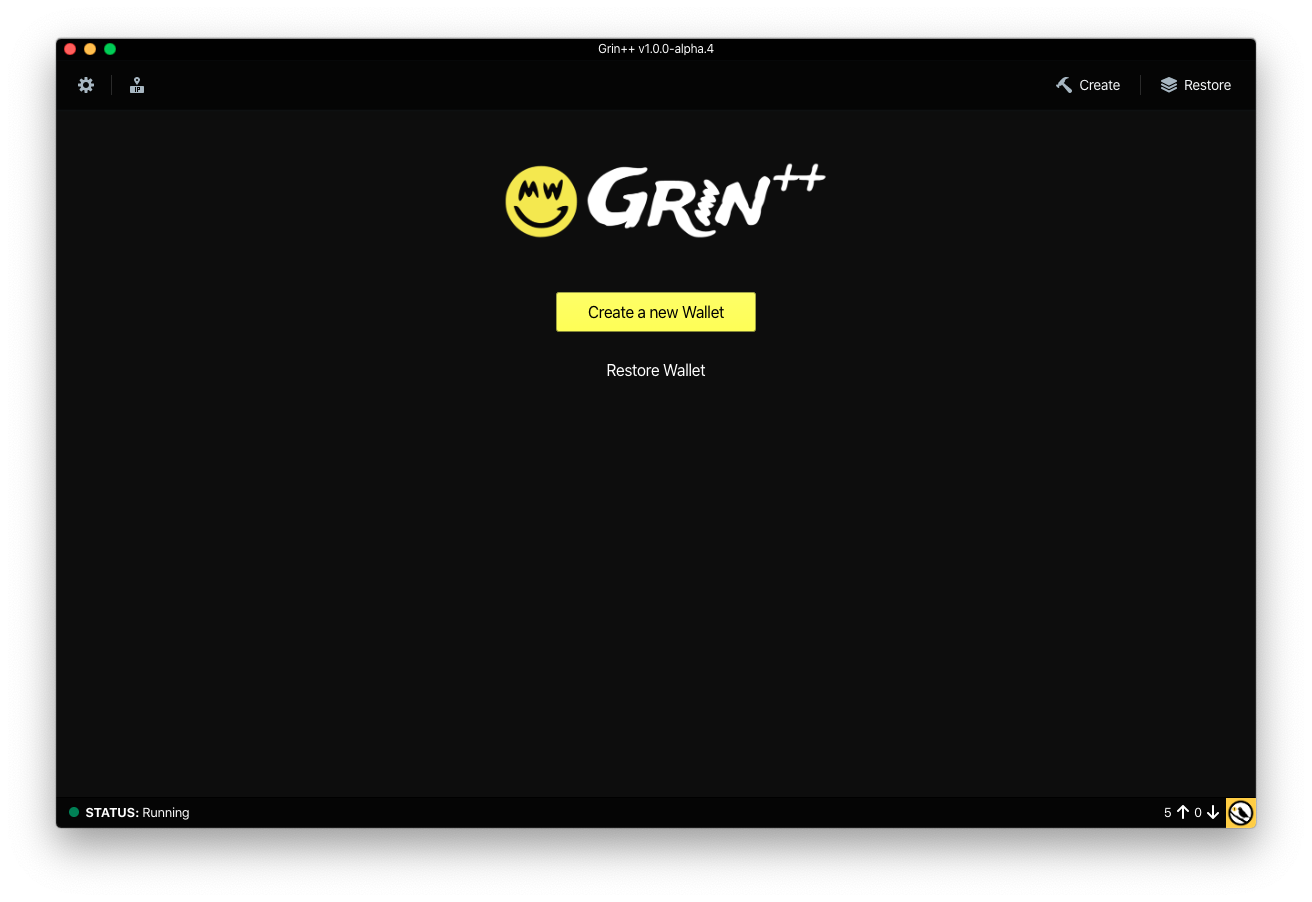
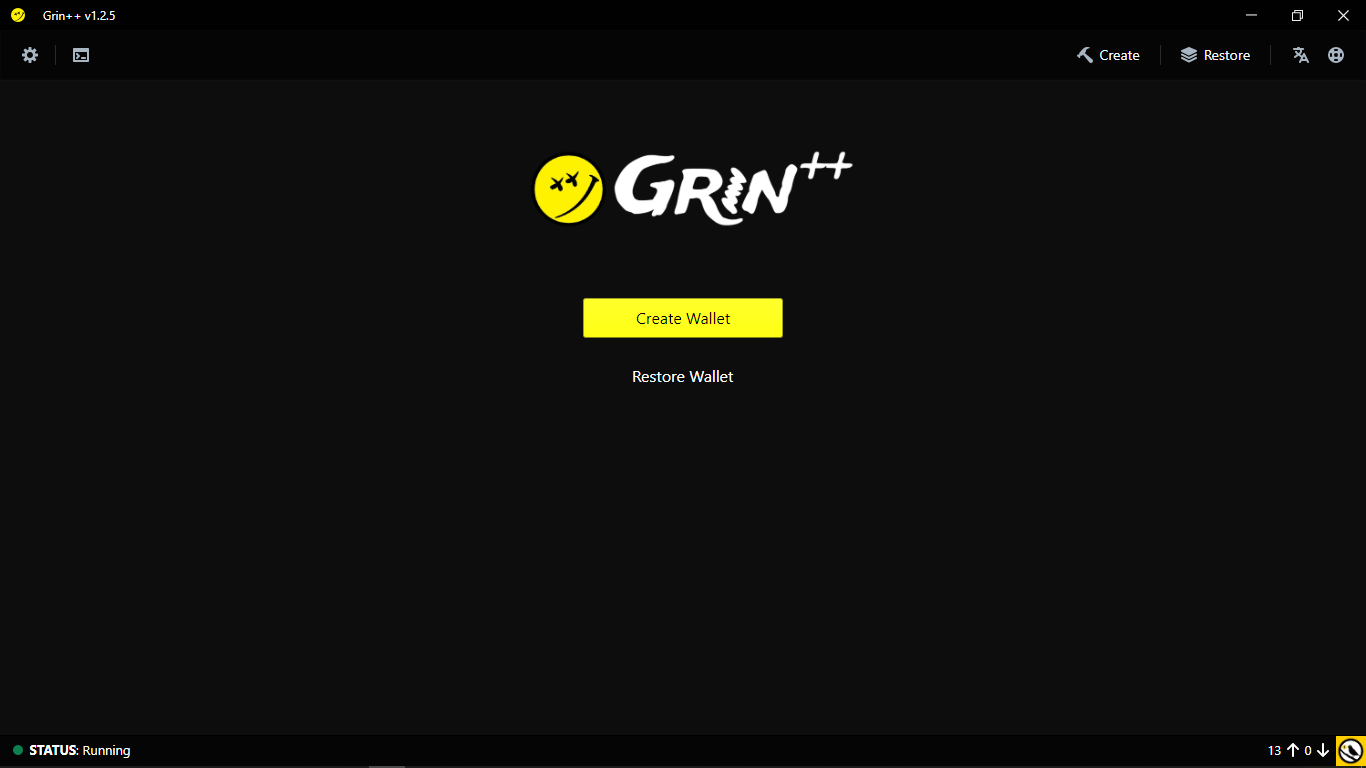
updating sreeenshots

Changed region(s): [[0.0, 0.0, 1.0, 1.0], [0.375, 0.1875, 0.625, 0.4375], [0.4688, 0.4688, 0.5312, 0.5]]

diff --git a/index.html b/index.html
@@ -54,7 +54,7 @@
                 id="download-link"
                 href="https://github.com/GrinPlusPlus/GrinPlusPlus/releases"
                 class="btn btn-custom btn-lg download"
-                style="width: 250px;"
+                style="width: 250px"
               >
                 <img
                   id="download-icon"
@@ -120,15 +120,23 @@
               <img
                 class="d-block w-100"
                 src="/screenshots/grinpp_wallet.png"
-                style="width: calc(500px + 40vw);"
+                style="width: calc(500px + 40vw)"
                 alt="Grin++ Wallet"
               />
             </div>
             <div class="carousel-item">
               <img
                 class="d-block w-100"
+                src="/screenshots/grinpp_init.png"
+                style="width: calc(500px + 40vw)"
+                alt="Coin Control"
+              />
+            </div>
+            <div class="carousel-item">
+              <img
+                class="d-block w-100"
                 src="/screenshots/grinpp_create_account.png"
-                style="width: calc(500px + 40vw);"
+                style="width: calc(500px + 40vw)"
                 alt="Create Account"
               />
             </div>
@@ -136,24 +144,40 @@
               <img
                 class="d-block w-100"
                 src="/screenshots/grinpp_create_wallet.png"
-                style="width: calc(500px + 40vw);"
+                style="width: calc(500px + 40vw)"
                 alt="Create Grin Wallet"
               />
             </div>
             <div class="carousel-item">
               <img
                 class="d-block w-100"
-                src="/screenshots/grinpp_restore_wallet.png"
-                style="width: calc(500px + 40vw);"
+                src="/screenshots/grinpp_send_coins.png"
+                style="width: calc(500px + 40vw)"
                 alt="Restore Wallet"
               />
             </div>
             <div class="carousel-item">
               <img
                 class="d-block w-100"
-                src="/screenshots/grinpp_coin_control.png"
-                style="width: calc(500px + 40vw);"
-                alt="Coin Control"
+                src="/screenshots/grinpp_receive_coins.png"
+                style="width: calc(500px + 40vw)"
+                alt="Restore Wallet"
+              />
+            </div>
+            <div class="carousel-item">
+              <img
+                class="d-block w-100"
+                src="/screenshots/grinpp_console.png"
+                style="width: calc(500px + 40vw)"
+                alt="Restore Wallet"
+              />
+            </div>
+            <div class="carousel-item">
+              <img
+                class="d-block w-100"
+                src="/screenshots/grinpp_help.png"
+                style="width: calc(500px + 40vw)"
+                alt="Restore Wallet"
               />
             </div>
           </div>
@@ -214,7 +238,7 @@
           </p>
         </div>
         <div class="col-md-5 order-md-1">
-          <img src="/screenshots/coincontrol.png" alt="Coin Control" />
+          <img src="/screenshots/coin_control.png" alt="Coin Control" />
         </div>
       </div>
 
@@ -251,7 +275,7 @@
               id="windows-download"
               href="https://github.com/GrinPlusPlus/GrinPlusPlus/releases"
               class="btn btn-lg btn-outline-dark"
-              style="width: 150px;"
+              style="width: 150px"
             >
               Windows
             </a>
@@ -265,7 +289,7 @@
               id="linux-download"
               href="https://github.com/GrinPlusPlus/GrinPlusPlus/releases"
               class="btn btn-lg btn-outline-dark"
-              style="width: 150px;"
+              style="width: 150px"
             >
               Linux
             </a>
@@ -281,7 +305,7 @@
               id="macos-download"
               href="https://github.com/GrinPlusPlus/GrinPlusPlus/releases"
               class="btn btn-lg btn-outline-dark"
-              style="width: 150px;"
+              style="width: 150px"
             >
               macOS
             </a>
